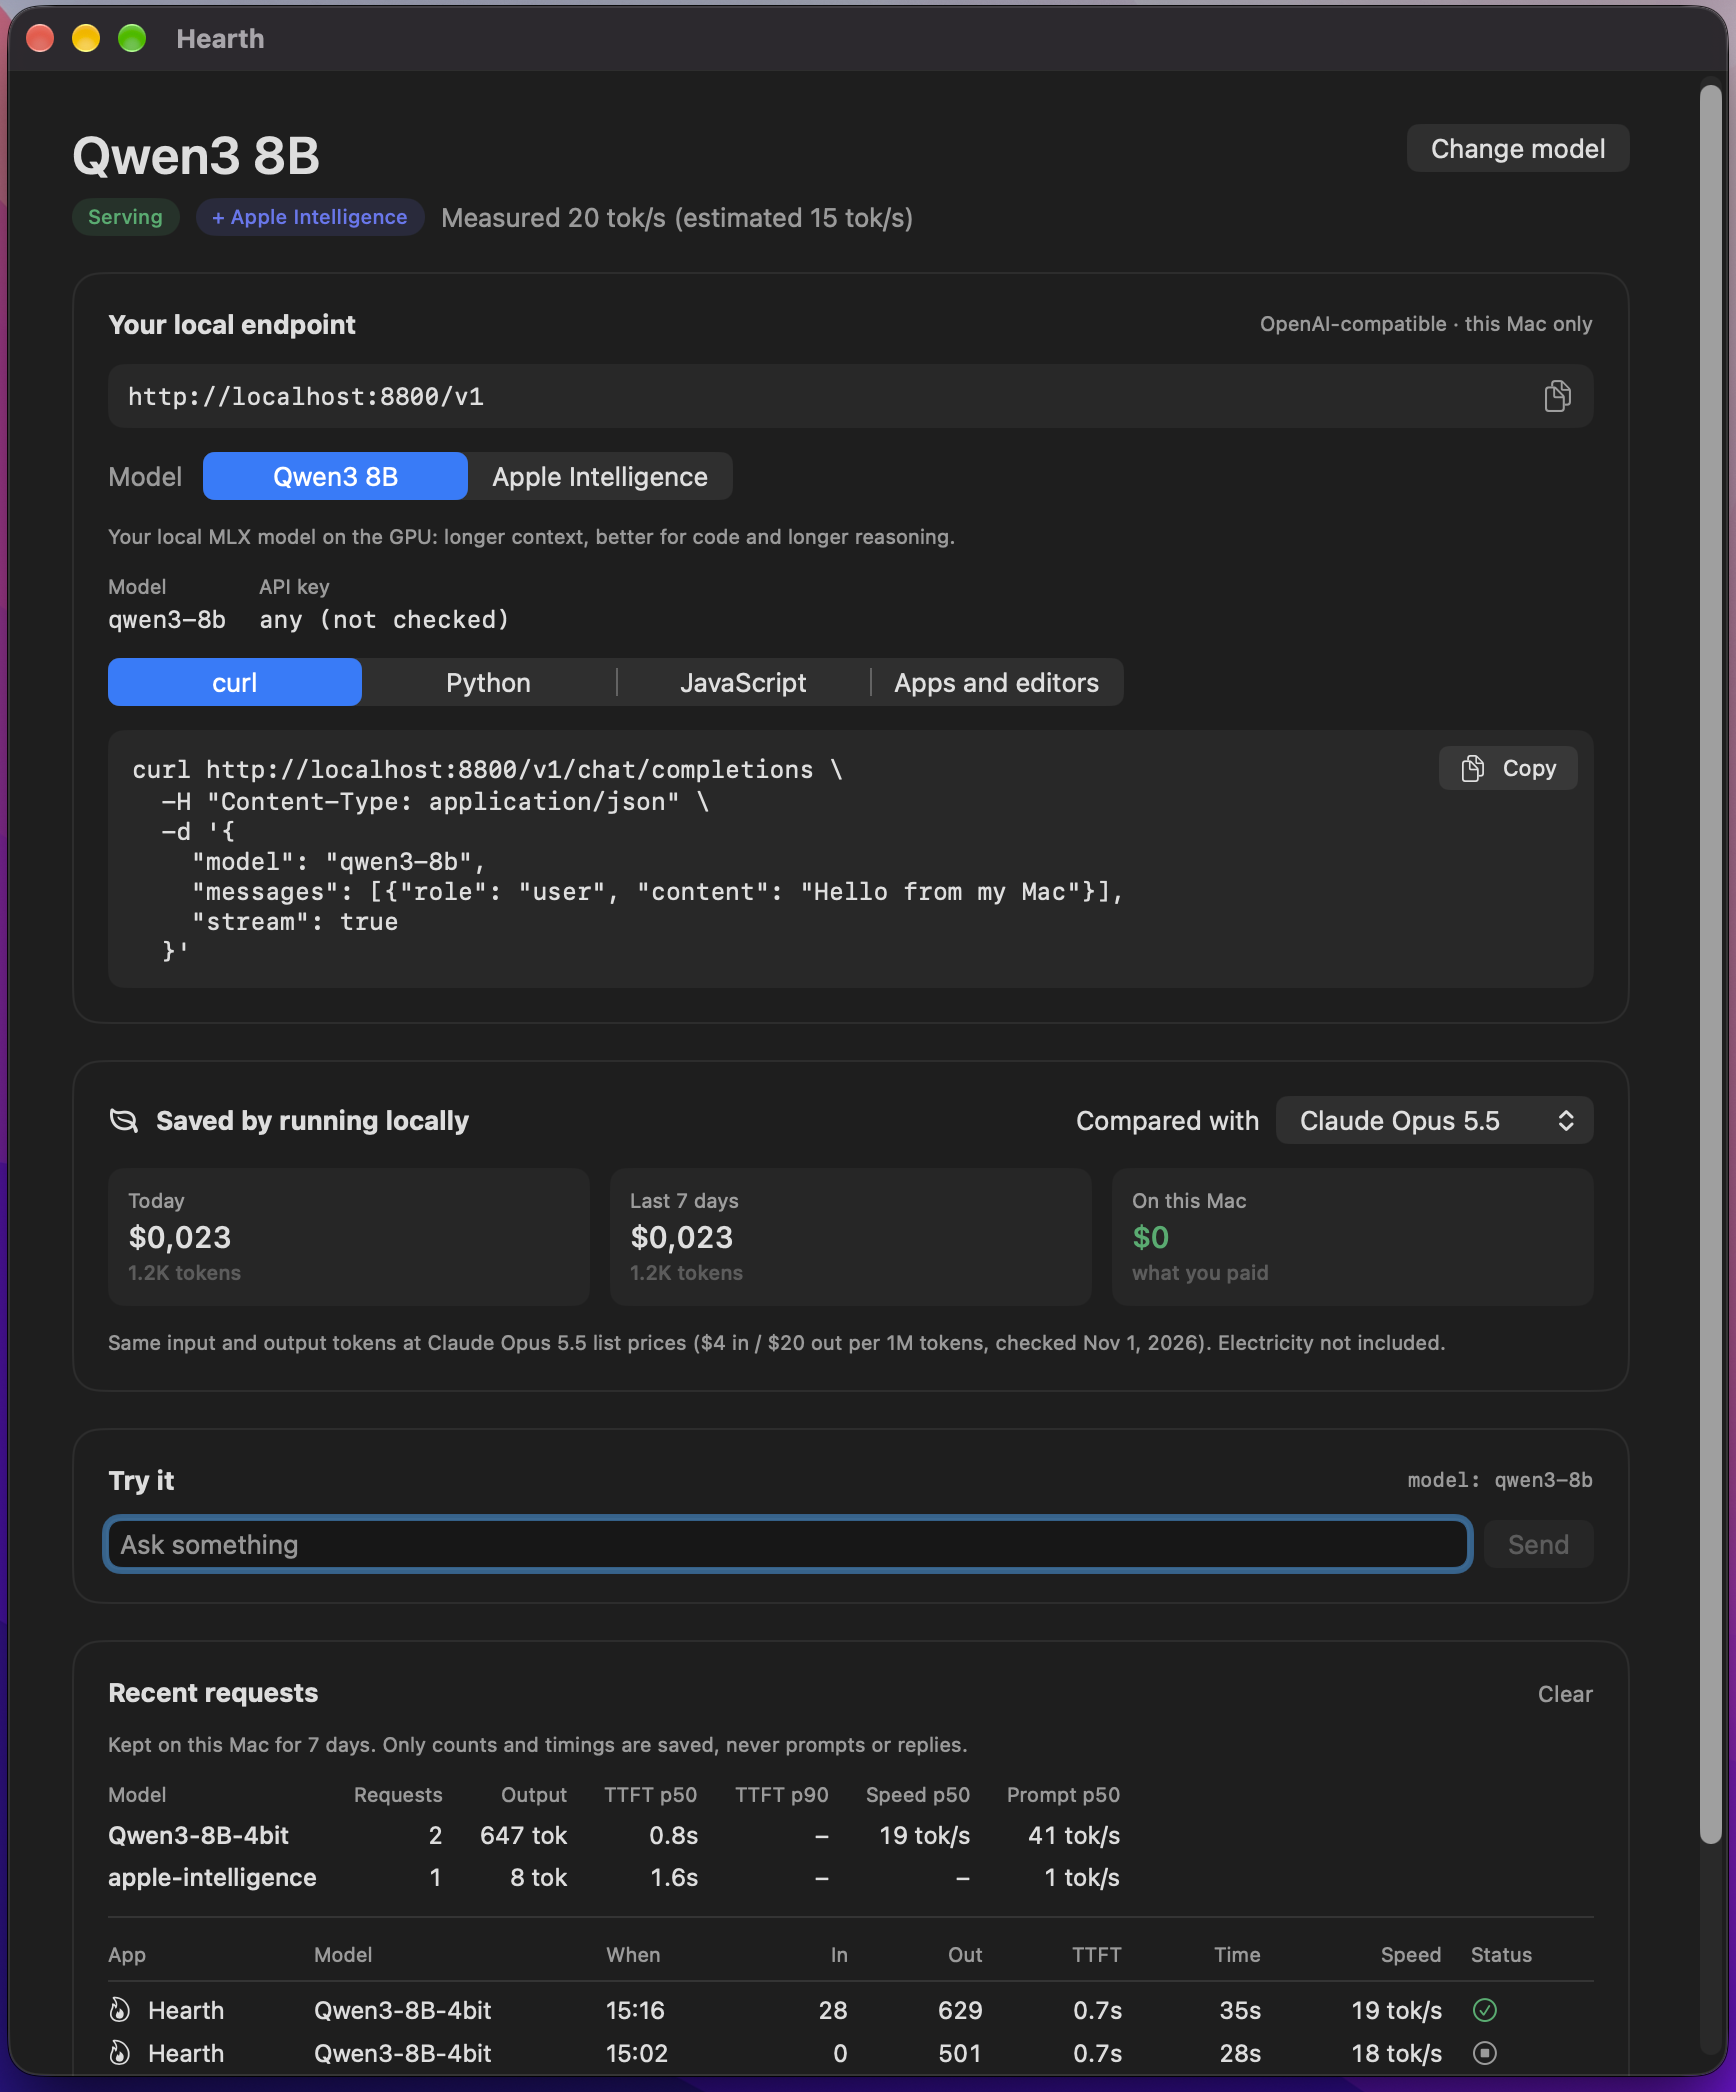
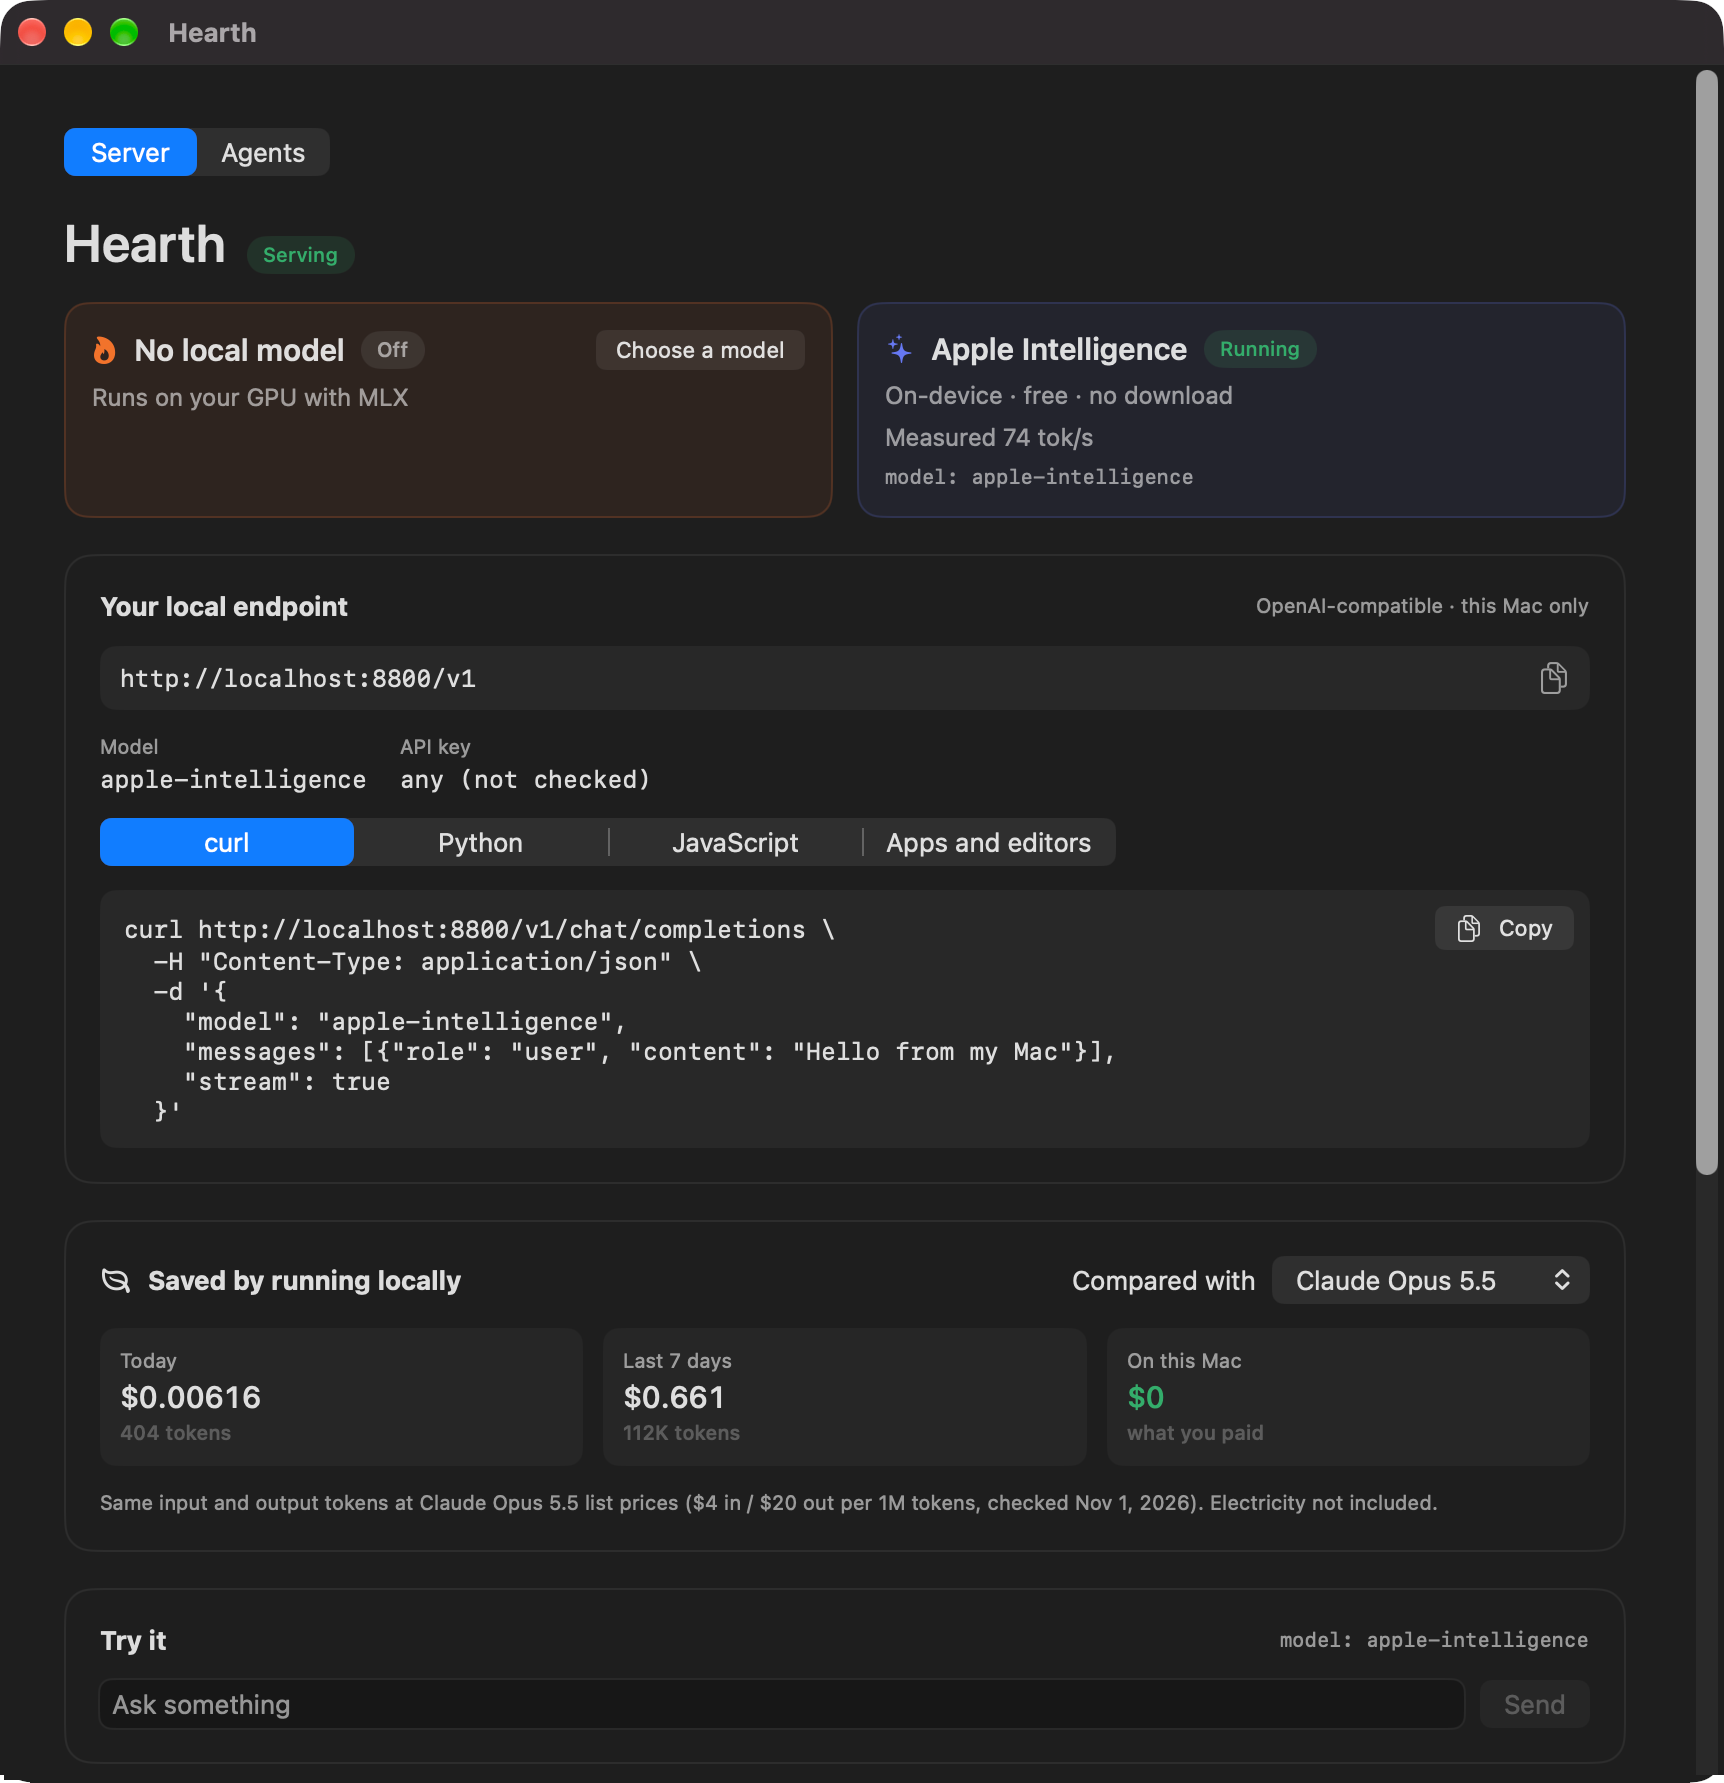
docs: update README screenshots for 0.3.0
The panel now shows the Agents section, the Details window has the
Server | Agents switch, and the model chooser lost its "Use only Apple
Intelligence" button. Agent sessions in the shots are made up.

Claude-Session: https://claude.ai/code/session_015C2FpGkzqimPwrjjo5pCo4

diff --git a/README.md b/README.md
@@ -8,7 +8,7 @@ shows tokens per second as they stream, which apps are calling and how much you 
 and, new in 0.3.0, what your coding agents are doing.
 
 <p align="center">
-  <img src="docs/screenshots/menu-bar.png" width="460" alt="Hearth's menu bar panel: model, endpoint, live stats, both models and who's using them">
+  <img src="docs/screenshots/menu-bar.png" width="340" alt="Hearth's menu bar panel: endpoint, live stats, the models it serves, who's using them and the coding agents' sessions">
 </p>
 
 - **No decisions to make.** One recommendation for *your* chip, memory and disk, with the reason.
@@ -28,12 +28,12 @@ Requires an Apple Silicon Mac with macOS 15 or later (Apple Intelligence needs m
 
 ## Screenshots
 
-| First launch | Every model, judged for your Mac |
+| One recommendation for this Mac | Every model, judged for your Mac |
 |---|---|
-| <img src="docs/screenshots/setup.png" alt="Setup: this Mac, Apple Intelligence, models already on disk, and one recommendation"> | <img src="docs/screenshots/models.png" alt="All catalog models with fit and speed estimates for this Mac"> |
+| <img src="docs/screenshots/setup.png" alt="Choosing a local model: this Mac, Apple Intelligence, models already on disk, and one recommendation"> | <img src="docs/screenshots/models.png" alt="All catalog models with fit and speed estimates for this Mac"> |
 
 <p align="center">
-  <img src="docs/screenshots/dashboard.png" width="720" alt="Dashboard: endpoint with model picker and code samples, savings, try-it box, performance summary and recent requests">
+  <img src="docs/screenshots/dashboard.png" width="720" alt="The Details window: the local model and Apple Intelligence, the endpoint with code samples, savings and a try-it box; a switch at the top shows Agents">
 </p>
 
 ## Install
@@ -188,7 +188,7 @@ Agents off forgets them. Requests to the agent endpoints need a per-install toke
 - Agents keeps sessions in memory only; nothing about them is written to disk or logs (see [Agents](#agents)).
 - Hearth keeps request **metadata** for 7 days (app, model, time, token counts, timings) in
   `~/Library/Application Support/Hearth/usage.json`. Prompts and replies are never stored.
-  **Clear** in the dashboard deletes it.
+  **Clear** in the Details window deletes it.
 - The only network traffic Hearth makes on its own is the model download from Hugging Face. Agent summaries
   run on Apple Intelligence on this Mac, never on the network.
 
@@ -218,7 +218,7 @@ without one it makes an ad-hoc signed DMG.
 | `Server/` | Loopback HTTP server, OpenAI types, MLX and Apple Intelligence backends |
 | `Stats/` | Live tok/s, request history, per-model performance, cloud prices |
 | `Agents/` | Agent hook events, sessions, summaries, the `/agents` endpoint, Connect/Disconnect |
-| `UI/` | Menu bar item and panel, setup window, dashboard, Agents section and cards, Markdown rendering |
+| `UI/` | Menu bar item and panel, setup window, Details window, Agents section and cards, Markdown rendering |
 
 Built on [MLX Swift](https://github.com/ml-explore/mlx-swift-lm),
 [swift-huggingface](https://github.com/huggingface/swift-huggingface) and
